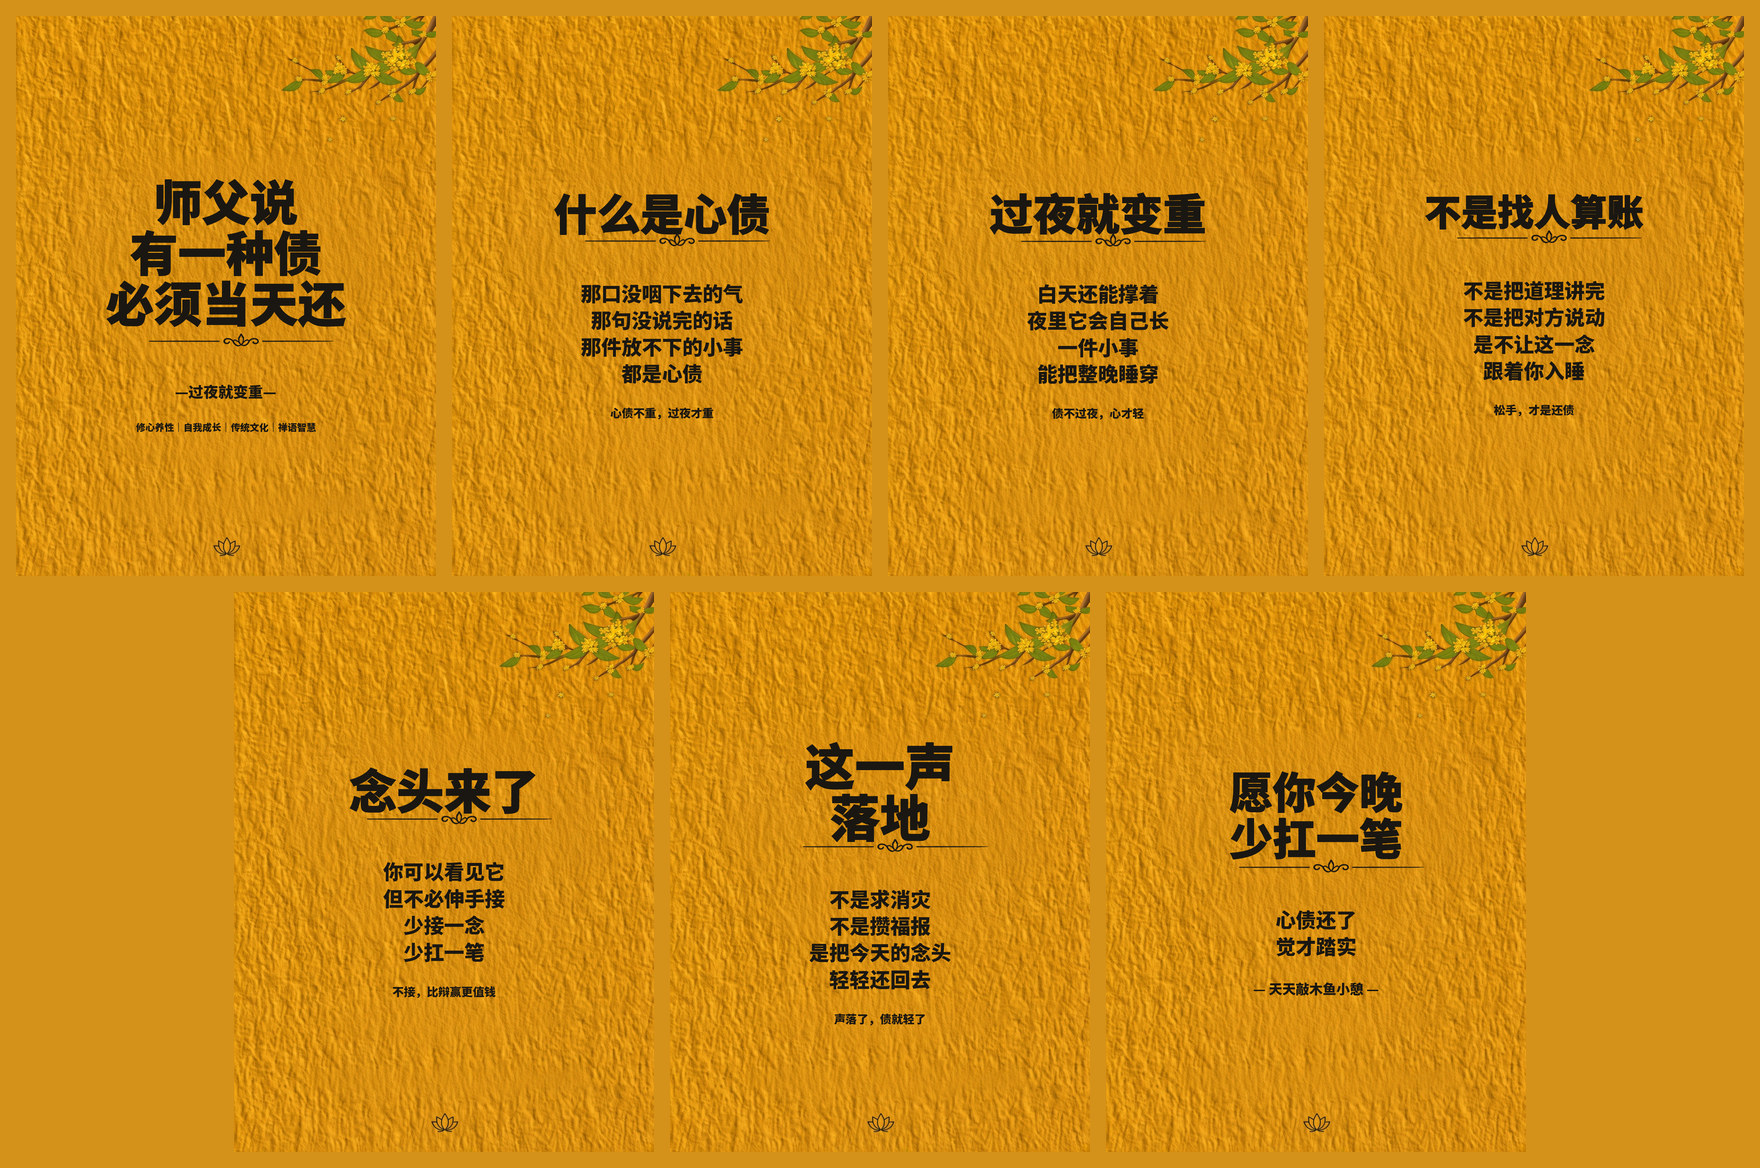
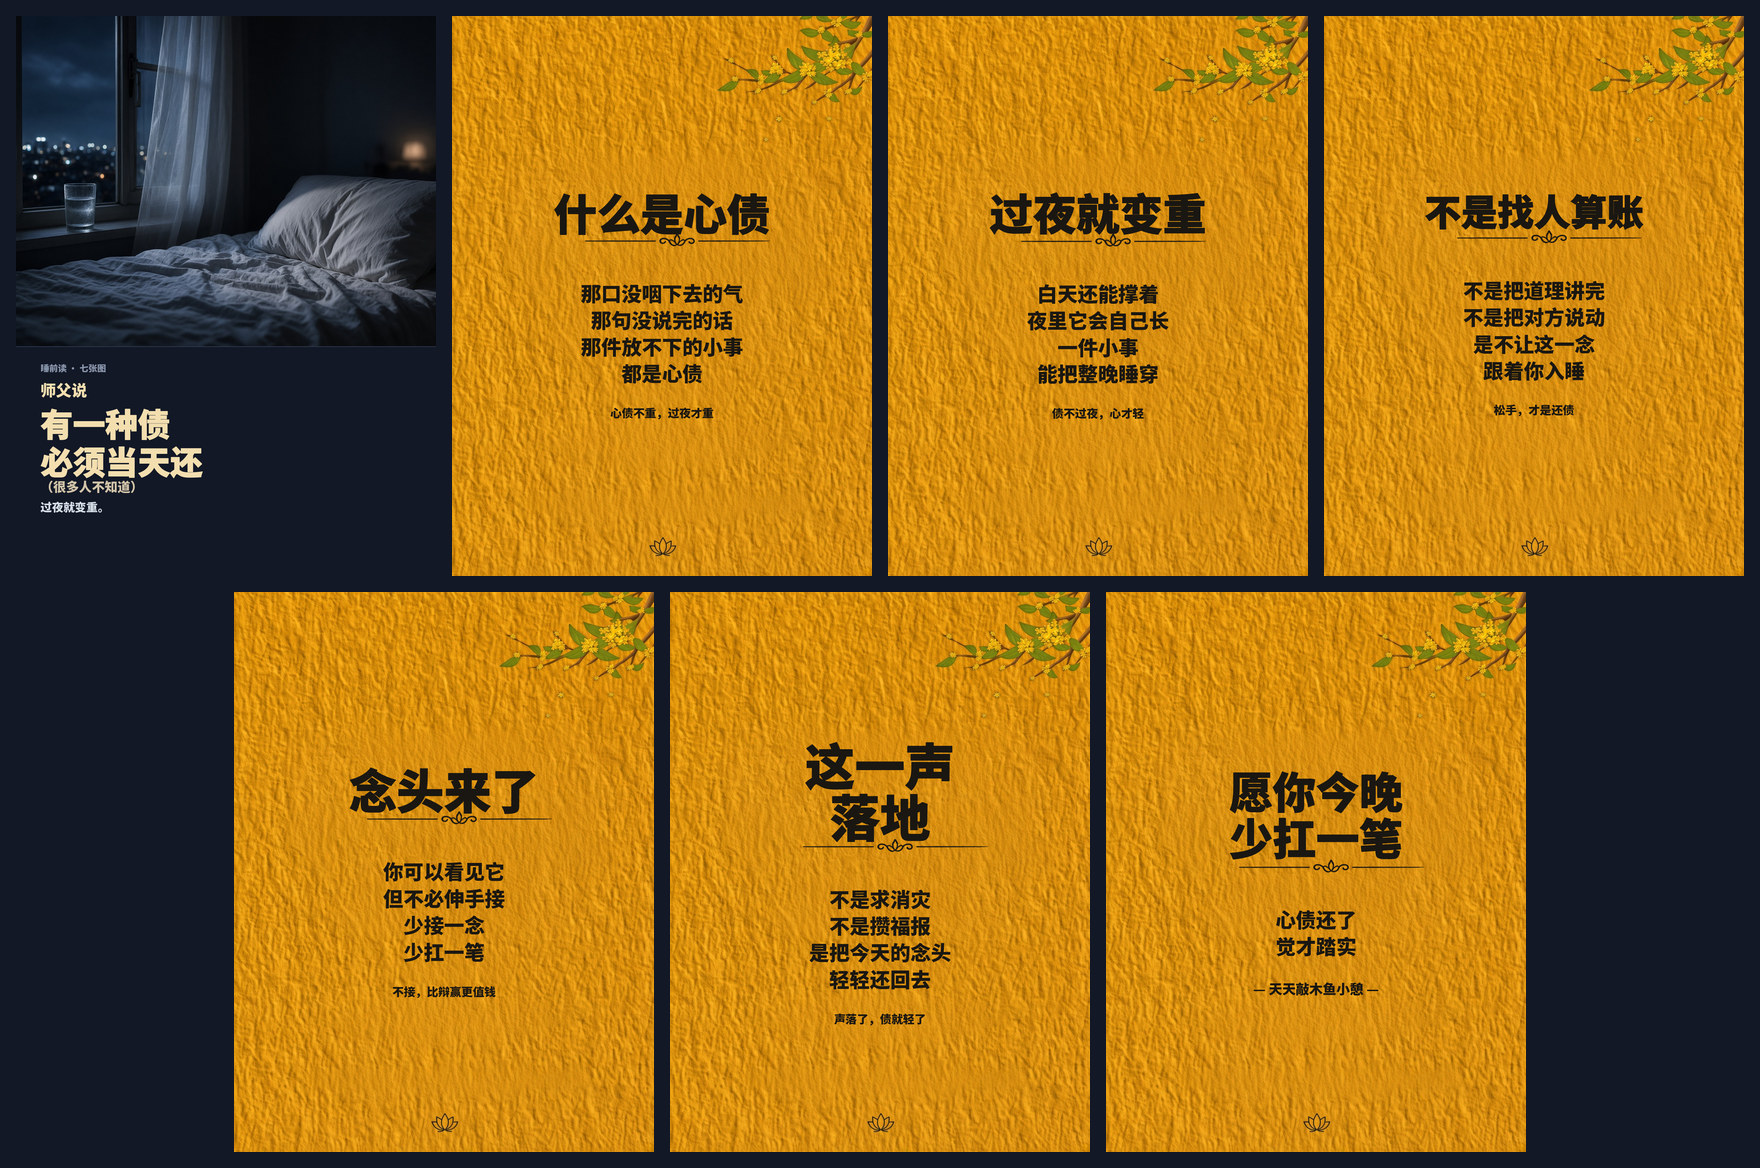
docs: redesign set-c cover as original photo + title split
Learn the feed-stopping structure (atmosphere on top, solid title
block below) without copying the reference's Buddha, tea tray, or
dark-green/mint palette. Official cover is the moonlit empty pillow
on ink-blue; inner yellow-paper cards 02-07 are unchanged.

diff --git a/docs/xhs-cards/set-c/NOTE.md b/docs/xhs-cards/set-c/NOTE.md
@@ -67,10 +67,40 @@
 
 | 顺序 | 文件 | 卡片要点 |
 | --- | --- | --- |
-| 1 | `01-title.jpg` | 师父说有一种债必须当天还 / 过夜就变重 |
+| 1 | `01-title.jpg` | 封面（上图下文）：过夜空枕 / 师父说有一种债必须当天还 |
 | 2 | `02-what-is-debt.jpg` | 什么是心债 |
 | 3 | `03-overnight.jpg` | 过夜就变重 |
 | 4 | `04-not-settling.jpg` | 不是找人算账 |
 | 5 | `05-dont-pick-up.jpg` | 念头来了，不必伸手接 |
 | 6 | `06-sound-lands.jpg` | 这一声落地 |
 | 7 | `07-closing.jpg` | 愿你今晚少扛一笔 + 天天敲木鱼小憩 |
+
+---
+
+## 4. 封面设计（学结构，不抄视觉）
+
+参考图只借**结构原则**，不做同账号套皮。
+
+学到的思路：
+
+1. 封面与内页视觉语言分离：封面抓信息流，内页继续黄纸粗体卡。
+2. 上下分区：上半约 59% 强氛围实景，下半纯色块承载大标题，信息层级一眼可读。
+3. 标题区高对比色字 + 好奇缺口：「（很多人不知道）」只抛判断，不解释。
+4. 轻量元信息自撰「睡前读 · 七张图」，不抄「全文2538字 \| 阅读需8分钟」。
+5. 封面信息量少：解释全部留给 02–07。
+
+明确没抄：无小白佛、无茶盘竹勺、无深绿底 + 薄荷绿字、无同一构图。
+
+### 三个候选
+
+| 候选 | 上半静物 | 下半色块 | 标题色 |
+| --- | --- | --- | --- |
+| `01-title-v2a.jpg` | 夜灯、未喝完的茶、皱纸、扣着的手机 | 赭褐 | 暖象牙 |
+| `01-title-v2b.jpg` **入选** | 窗边月光、空枕、皱床单、一杯水 | 墨蓝（非绿） | 暖羊皮纸（非薄荷） |
+| `01-title-v2c.jpg` | 半灭台灯、皱纸团、眼镜 | 烟灰紫 | 浅桃 |
+
+候选拼图：`../set-c-cover-candidates.jpg`
+
+**入选 v2b 的原因：** 「过夜就变重」的画面锚点最直接（空枕 / 未眠 / 窗）；冷色封面 vs 黄纸内页反差最大，刷信息流时不像同一套模板；色板刻意避开墨绿 + 薄荷绿。内页 02–07 未改。
+
+封面无二维码、无微信搜、无产品名。

diff --git a/docs/xhs-cards/README.md b/docs/xhs-cards/README.md
@@ -37,7 +37,7 @@
 
 | 顺序 | 文件 | 卡片要点 |
 | --- | --- | --- |
-| 1 | `set-c/01-title.jpg` | 师父说有一种债必须当天还 |
+| 1 | `set-c/01-title.jpg` | 封面单独设计：窗边月光空枕 + 墨蓝底大标题（内页仍是黄纸） |
 | 2 | `set-c/02-what-is-debt.jpg` | 什么是心债 |
 | 3 | `set-c/03-overnight.jpg` | 过夜就变重 |
 | 4 | `set-c/04-not-settling.jpg` | 不是找人算账 |
@@ -46,7 +46,8 @@
 | 7 | `set-c/07-closing.jpg` | 愿你今晚少扛一笔 + 天天敲木鱼小憩 |
 
 文案与研报：`set-c/NOTE.md`  
-预览：`set-c-contact.jpg`
+预览：`set-c-contact.jpg`  
+封面候选：`set-c-cover-candidates.jpg`（正式封面为窗边月光空枕方案）
 
 ## 使用约束
 
